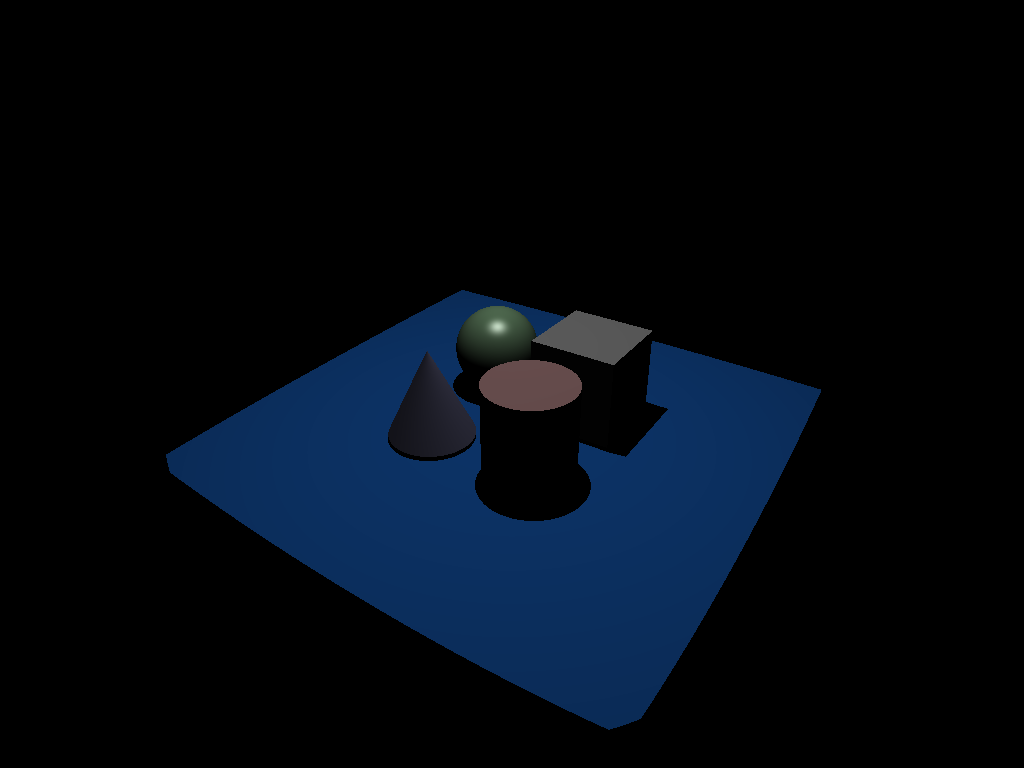
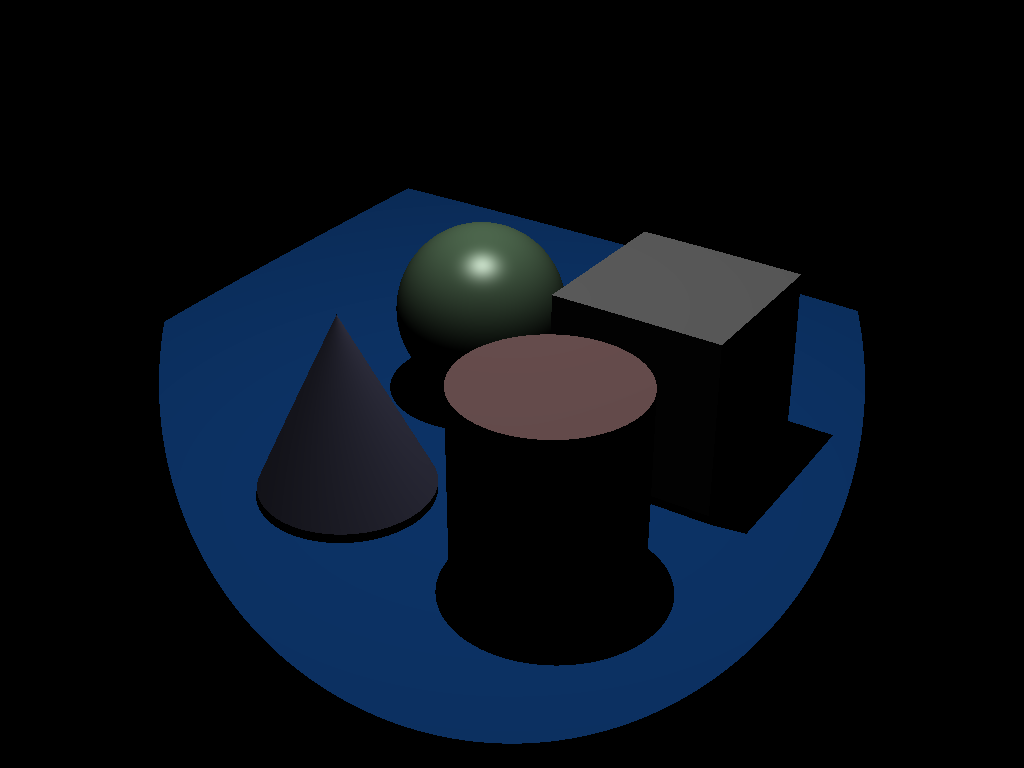
not working

Changed region(s): [[0.1562, 0.25, 0.8438, 0.9688]]

diff --git a/src/raytracer/raytracer.cpp b/src/raytracer/raytracer.cpp
@@ -68,57 +68,69 @@ void RayTracer::render(RGBA *imageData, const RayTraceScene &scene) {
     BoundingBox parentBox(glm::vec3(-20.0f, -20.0f, -20.0f), glm::vec3(20.0f, 20.0f, 20.0f));
     KdTree::KdNode* root = kdTree.build(shapes, parentBox);
 
+    bool lens = (scene.getLensInterfaces().size() != 0);
+
     // arbitrary depth value, can change
     int maxDepth = 3;
 
     for (int r = 0; r < scene.height(); r ++) {
         for (int c = 0; c < scene.width(); c ++) {
-            imageData[r * scene.width() + c] = superSamp(r, c, 1.0f, scene, root, camera, eyePoint, maxDepth);
+            imageData[r * scene.width() + c] = superSamp(r, c, 1.0f, scene, root, camera, eyePoint, maxDepth, lens);
         }
     }
 }
 
 RGBA RayTracer::superSamp(float r, float c, int pixelSize, const RayTraceScene &scene, KdTree::KdNode* root,
-                                    const Camera &camera, const glm::vec3 &eyePoint, int maxDepth) {
-    float halfPixel = pixelSize / 2.0f;
+                                    const Camera &camera, const glm::vec3 &eyePoint, int maxDepth, bool lens) {
 
-    // glm::vec3 d = glm::normalize(camera.getInverseViewMatrix() * glm::vec4(scene.getPoint(r, c, camera), 1.0f) - glm::vec4(eyePoint, 1.0f));
+    glm::vec3 d, p;
 
-    glm::vec3 d = glm::normalize(scene.getPoint(r, c, camera));
-    bool debug;
+    if (lens) {
+        d = glm::normalize(scene.getPoint(r, c, camera));
+        bool debug = false;
 
-    if (r == 350 && c == 500) {
-        debug = true;
-    }
+        if (r == 384 && c == 513) {
+            debug = true;
+        }
 
-    // arbitrary threshold value, can change
-    float threshold = 0.1;
+        glm::vec3 eyePointLens;
+        glm::vec3 dLens;
+        if (!traceRayThroughLens(glm::vec3(0.0f), d, &eyePointLens, &dLens, scene.getLensInterfaces(), debug)) {
+            return RGBA{0, 0, 0, 255};
+        }
 
-    // ray through lens:
-    glm::vec3 eyePointLens;
-    glm::vec3 dLens;
-    if (!traceRayThroughLens(glm::vec3(0.0f), d, &eyePointLens, &dLens, scene.getLensInterfaces(), debug)) {
-        // std::cout << "cannot trace lens ray" << std::endl;
-        return RGBA{0, 0, 0, 255};
+        d = glm::normalize(camera.getInverseViewMatrix() * glm::vec4(dLens, 0.0f));
+        p = camera.getInverseViewMatrix() * glm::vec4(eyePointLens, 1.0f);
     } else {
-        // std::cout << ":)" << std::endl;
+        d = glm::normalize(camera.getInverseViewMatrix() * glm::vec4(scene.getPoint(r, c, camera), 1.0f) - glm::vec4(eyePoint, 1.0f));
+        p = eyePoint;
+
     }
 
-    // now, use ray through lens
+    // float threshold = 0.1;
+    // float halfPixel = pixelSize / 2.0f;
 
-    d = glm::normalize(camera.getInverseViewMatrix() * glm::vec4(dLens, 0.0f));
-    glm::vec3 p = camera.getInverseViewMatrix() * glm::vec4(eyePointLens, 1.0f);
-        // check that eyepointlens is not a big vector- should be close to 0 (millimeters away)
+    // RGBA samples[4] = {
+    //     traceRay(r + pixelSize * 0.25, c + pixelSize * 0.25, scene, root, eyePoint, d, 0),
+    //     traceRay(r + pixelSize * 0.75, c + pixelSize * 0.25, scene, root, eyePoint, d, 0),
+    //     traceRay(r + pixelSize * 0.25, c + pixelSize * 0.75, scene, root, eyePoint, d, 0),
+    //     traceRay(r + pixelSize * 0.75, c + pixelSize * 0.75, scene, root, eyePoint, d, 0)
+    // };
 
+    // float variance = calculateColorVariance(samples);
 
-    RGBA samples[4] = {
-        traceRay(r + pixelSize * 0.25, c + pixelSize * 0.25, scene, root, p, d, 0),
-        traceRay(r + pixelSize * 0.75, c + pixelSize * 0.25, scene, root, p, d, 0),
-        traceRay(r + pixelSize * 0.25, c + pixelSize * 0.75, scene, root, p, d, 0),
-        traceRay(r + pixelSize * 0.75, c + pixelSize * 0.75, scene, root, p, d, 0)
-    };
+    // if (variance < threshold || maxDepth == 0) {
+    //     return averageColor(samples);
+    // }
 
-    return averageColor(samples);
+    // RGBA subSamples[4] = {
+    //     superSamp(r, c, halfPixel, scene, root, camera, eyePoint, maxDepth - 1, lens),
+    //     superSamp(r + halfPixel, c, halfPixel, scene, root, camera, eyePoint, maxDepth - 1, lens),
+    //     superSamp(r, c + halfPixel, halfPixel, scene, root, camera, eyePoint, maxDepth - 1, lens),
+    //     superSamp(r + halfPixel, c + halfPixel, halfPixel, scene, root, camera, eyePoint, maxDepth - 1, lens)
+    // };
+
+    return traceRay(r, c, scene, root, p, d, 0);
 }
 
 
@@ -276,8 +288,8 @@ bool RayTracer::traceRayThroughLens(const glm::vec3 eyePoint, const glm::vec3 d,
     glm::vec3 eyePointLens = scaleMatrix * eyePoint;
     float z = 0.0f;
     for (int i = lenses.size() - 1; i >= 0; i--) {
-        if (debug && i == 7) {
-            auto egreg = 0;
+        if (debug && i ==0) {
+            auto hello = 0;
         }
         LensInterface lens = lenses[i];
         z -= lens.thickness;
@@ -291,7 +303,7 @@ bool RayTracer::traceRayThroughLens(const glm::vec3 eyePoint, const glm::vec3 d,
         } else {
             float r = lens.radius;
             float center = z + r;
-            glm::mat4 translation = glm::mat4(1.0f); // try using glm translare and scale
+            glm::mat4 translation = glm::mat4(1.0f);
             translation[3][2] = center;
             float scalingFactor = (r/0.5f);
             translation[0][0] =  scalingFactor;
@@ -300,7 +312,7 @@ bool RayTracer::traceRayThroughLens(const glm::vec3 eyePoint, const glm::vec3 d,
             Sphere sphere = Sphere(translation, SceneMaterial{}, nullptr);
             sphere.setIsLens(true);
             sphere.setRadius(r);
-            if (!sphere.calcIntersection(eyePointLens, dLens, intersectionPoint, t)) {
+            if (!sphere.calcIntersection(eyePointLens, glm::normalize(dLens), intersectionPoint, t)) {
                 return false;
             } else {
                 n = sphere.calcNormal(intersectionPoint);
@@ -316,13 +328,10 @@ bool RayTracer::traceRayThroughLens(const glm::vec3 eyePoint, const glm::vec3 d,
             float nStart = lens.n;
             float nEnd = (i > 0 && lenses[i - 1].n != 0) ? lenses[i - 1].n : 1.0f;
             glm::vec3 outputD;
-            glm::vec3 outputP;
-            if (!refract(glm::normalize(-dLens), eyePointLens, n, nStart, nEnd, &outputD, &outputP, intersectionPoint)) {
+            if (!refract(glm::normalize(dLens), n, nStart, nEnd, &outputD)) {
                 return false;
             }
-            const float epsilon = 1e-2f;
-            dLens = outputD;
-            eyePointLens -= dLens * epsilon;
+            dLens = glm::normalize(outputD);
         }
     }
 
@@ -331,18 +340,35 @@ bool RayTracer::traceRayThroughLens(const glm::vec3 eyePoint, const glm::vec3 d,
     return true;
 }
 
-bool RayTracer::refract(glm::vec3 d, glm::vec3 p, glm::vec3 normal, float n1, float n2, glm::vec3 *outputD, glm::vec3 *outputP, glm::vec3 intersectionPoint) {
-    float eta = n1/n2;
-    float cos1 = glm::dot(d, normal);
+bool RayTracer::refract(glm::vec3 d, glm::vec3 normal, float n1, float n2, glm::vec3 *outputD) {
+    // float eta = n1/n2;
+    // float cos1 = glm::dot(d, normal);
     // bool entering = cos1 < 0.0f;
     // cos1 = entering ? -cos1 : cos1;
-    float sin1 = std::max(0.0f, 1.0f - cos1 * cos1);
-    float sin2 = eta * eta * sin1;
-    if (sin2 >= 1.0f) {
-        return false;
+    // float sin1 = std::max(0.0f, 1.0f - cos1 * cos1);
+    // float sin2 = eta * eta * sin1;
+    // if (sin2 >= 1.0f) {
+    //     return false;
+    // }
+    // float cos2 = std::sqrt(1.0f - sin2);
+    // *outputD = eta * -d + (eta * cos1 - cos2) * normal;
+
+    float cosTheta1 = glm::dot(d, normal);
+    bool entering = cosTheta1 < 0.0f;
+    cosTheta1 = entering ? -cosTheta1 : cosTheta1;
+    float eta = n1/n2;
+    glm::vec3 refNorm = entering ? normal : normal;
+
+    float k = 1.0f - eta * eta * (1.0f - cosTheta1 * cosTheta1);
+
+    glm::vec3 T;
+    if (k < 0.0f) {
+        T = d - 2.0f * glm::dot(d, refNorm) * refNorm;
+    } else {
+        float cosTheta2 = std::sqrt(k);
+        T = (eta * d) + (((eta * cosTheta1) - cosTheta2) * refNorm);
     }
-    float cos2 = std::sqrt(1.0f - sin2);
-    *outputD = eta * -d + (eta * cos1 - cos2) * normal;
+    *outputD = T;
     return true;
 }
 

diff --git a/src/main.cpp b/src/main.cpp
@@ -15,11 +15,10 @@ int main(int argc, char *argv[])
     QCommandLineParser parser;
     parser.addHelpOption();
     parser.addPositionalArgument("config", "Path of the config file.");
-    parser.addPositionalArgument("data", "Path of the lens .dat file.");
     parser.process(a);
 
     auto positionalArgs = parser.positionalArguments();
-    if (positionalArgs.size() != 2) {
+    if (positionalArgs.size() != 1) {
         std::cerr << "Not enough arguments. Please provide a path to a config file (.ini) as a command-line argument." << std::endl;
         a.exit(1);
         return 1;
@@ -28,14 +27,25 @@ int main(int argc, char *argv[])
     QSettings settings( positionalArgs[0], QSettings::IniFormat );
     QString iScenePath = settings.value("IO/scene").toString();
     QString oImagePath = settings.value("IO/output").toString();
+    QString lFilePath = settings.value("IO/lens").toString();
 
     RenderData metaData;
-    bool success = SceneParser::parse(iScenePath.toStdString(), positionalArgs[1].toStdString(), metaData);
+    bool sceneSuccess = SceneParser::parseScene(iScenePath.toStdString(), metaData);
 
-    if (!success) {
+    if (!sceneSuccess) {
         std::cerr << "Error loading scene: \"" << iScenePath.toStdString() << "\"" << std::endl;
         a.exit(1);
         return 1;
+    }
+
+    if (!lFilePath.isEmpty()) {
+        bool lensSuccess = SceneParser::parseLens(lFilePath.toStdString(), metaData);
+
+        if (!lensSuccess) {
+            std::cerr << "Error loading lens: \"" << lFilePath.toStdString() << "\"" << std::endl;
+            a.exit(1);
+            return 1;
+        }
     }
 
     // Raytracing-relevant code starts here
@@ -71,7 +81,7 @@ int main(int argc, char *argv[])
     raytracer.render(data, rtScene);
 
     // Saving the image
-    success = image.save(oImagePath);
+    bool success = image.save(oImagePath);
     if (!success) {
         success = image.save(oImagePath, "PNG");
     }

diff --git a/src/raytracer/raytracer.h b/src/raytracer/raytracer.h
@@ -41,7 +41,7 @@ public:
     void render(RGBA *imageData, const RayTraceScene &scene);
 
     RGBA superSamp(float r, float c, int pixelSize, const RayTraceScene &scene, KdTree::KdNode* root,
-                             const Camera &camera, const glm::vec3 &eyePoint, int maxDepth);
+                             const Camera &camera, const glm::vec3 &eyePoint, int maxDepth, bool lens);
 
     RGBA traceRay(float r, float c, const RayTraceScene &scene, KdTree::KdNode* root, const glm::vec3 eyePoint, const glm::vec3 d, int currentDepth);
 
@@ -51,7 +51,7 @@ public:
 
     bool traceRayThroughLens(const glm::vec3 eyePoint, const glm::vec3 d, glm::vec3 *eyePointOut, glm::vec3 *dOut, std::vector<LensInterface> lenses, bool debug);
 
-    bool refract(glm::vec3 d, glm::vec3 p, glm::vec3 normal, float n1, float n2, glm::vec3 *outputD, glm::vec3 *outputP, glm::vec3 intersectionPoint);
+    bool refract(glm::vec3 d, glm::vec3 normal, float n1, float n2, glm::vec3 *outputD);
 
 private:
     const Config m_config;

diff --git a/src/utils/sphere.cpp b/src/utils/sphere.cpp
@@ -14,13 +14,10 @@ glm::vec3 Sphere::calcNormal(const glm::vec3 point) {
     // Calculate normal in object space
     glm::vec3 objectSpaceNormal = glm::normalize(objectSpacePoint);
 
-    float lensFactor = 1.0f;
-    if (m_isLens && m_radius > 0) {
-        lensFactor = -1.0f;
-    }
+    glm::vec3 n = glm::normalize(glm::vec3(glm::transpose(m_inverseCTM) * glm::vec4(objectSpaceNormal, 0.0f)));
 
     // Transform normal back to world space using the transpose of the inverse of CTM
-    return lensFactor * glm::normalize(glm::vec3(glm::transpose(m_inverseCTM) * glm::vec4(objectSpaceNormal, 0.0f)));
+    return n;
 }
 
 // Method to calculate the intersection with a ray
@@ -98,10 +95,6 @@ glm::vec3 Sphere::getTexture(const glm::vec3& intersection) {
 
     RGBA pixel = m_image->data[y * m_image->width + x];
     return glm::vec3(pixel.r / 255.0f, pixel.g / 255.0f, pixel.b / 255.0f);
-}
-
-void Sphere::setCenter(glm::vec3 center) {
-    m_center = center;
 }
 
 void Sphere::setRadius(float r) {

diff --git a/src/utils/sceneparser.cpp b/src/utils/sceneparser.cpp
@@ -77,7 +77,7 @@ void traverseSceneGraph(SceneNode* node, glm::mat4 parentCTM, std::vector<Render
     }
 }
 
-bool SceneParser::parse(std::string sceneFilepath, std::string lensFilepath, RenderData &renderData) {
+bool SceneParser::parseScene(std::string sceneFilepath, RenderData &renderData) {
     ScenefileReader sceneFileReader = ScenefileReader(sceneFilepath);
     bool success = sceneFileReader.readJSON();
     if (!success) {
@@ -93,6 +93,10 @@ bool SceneParser::parse(std::string sceneFilepath, std::string lensFilepath, Ren
     glm::mat4 identityMatrix = glm::mat4(1.0f);
     traverseSceneGraph(rootNode, identityMatrix, renderData.shapes, renderData.lights);
 
+    return true;
+}
+
+bool SceneParser::parseLens(std::string lensFilepath, RenderData &renderData) {
     LensFileReader lensFileReader = LensFileReader(lensFilepath);
 
     bool lensSuccess = lensFileReader.readLensFile();

diff --git a/src/utils/sceneparser.h b/src/utils/sceneparser.h
@@ -28,5 +28,6 @@ public:
     // @param filepath    The path of the scene file to load.
     // @param renderData  On return, this will contain the metadata of the loaded scene.
     // @return            A boolean value indicating whether the parse was successful.
-    static bool parse(std::string sceneFilepath, std::string lensFilepath, RenderData &renderData);
+    static bool parseScene(std::string sceneFilepath, RenderData &renderData);
+    static bool parseLens(std::string lensFilepath, RenderData &renderData);
 };

diff --git a/src/utils/scenedata.h b/src/utils/scenedata.h
@@ -87,7 +87,7 @@ struct SceneCameraData {
 
 // Struct which contains data for texture mapping files
 struct SceneFileMap {
-    SceneFileMap() : isUsed(false) {}
+     SceneFileMap() : isUsed(false) {}
 
     bool isUsed;
     std::string filename;

diff --git a/src/utils/sphere.h b/src/utils/sphere.h
@@ -20,8 +20,6 @@ public:
 
     void id() override;
 
-    void setCenter(glm::vec3 center);
-
     void setRadius(float r);
 
     void setIsLens(bool isLens);
